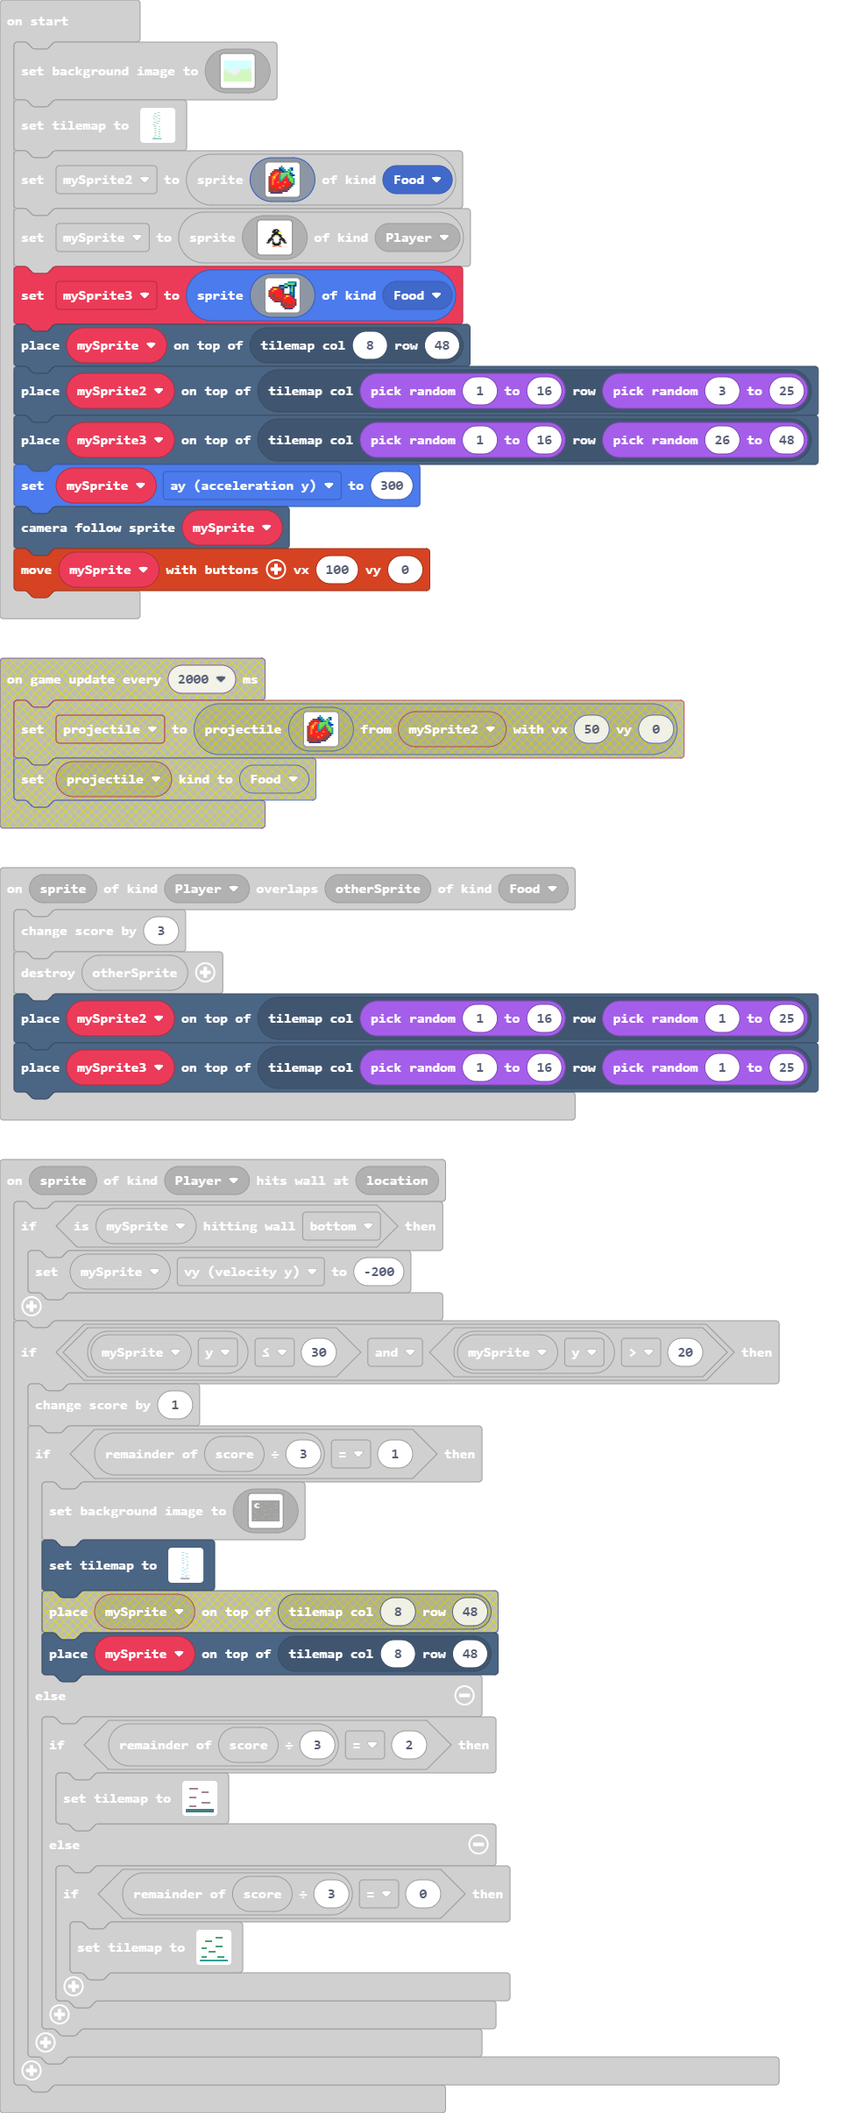
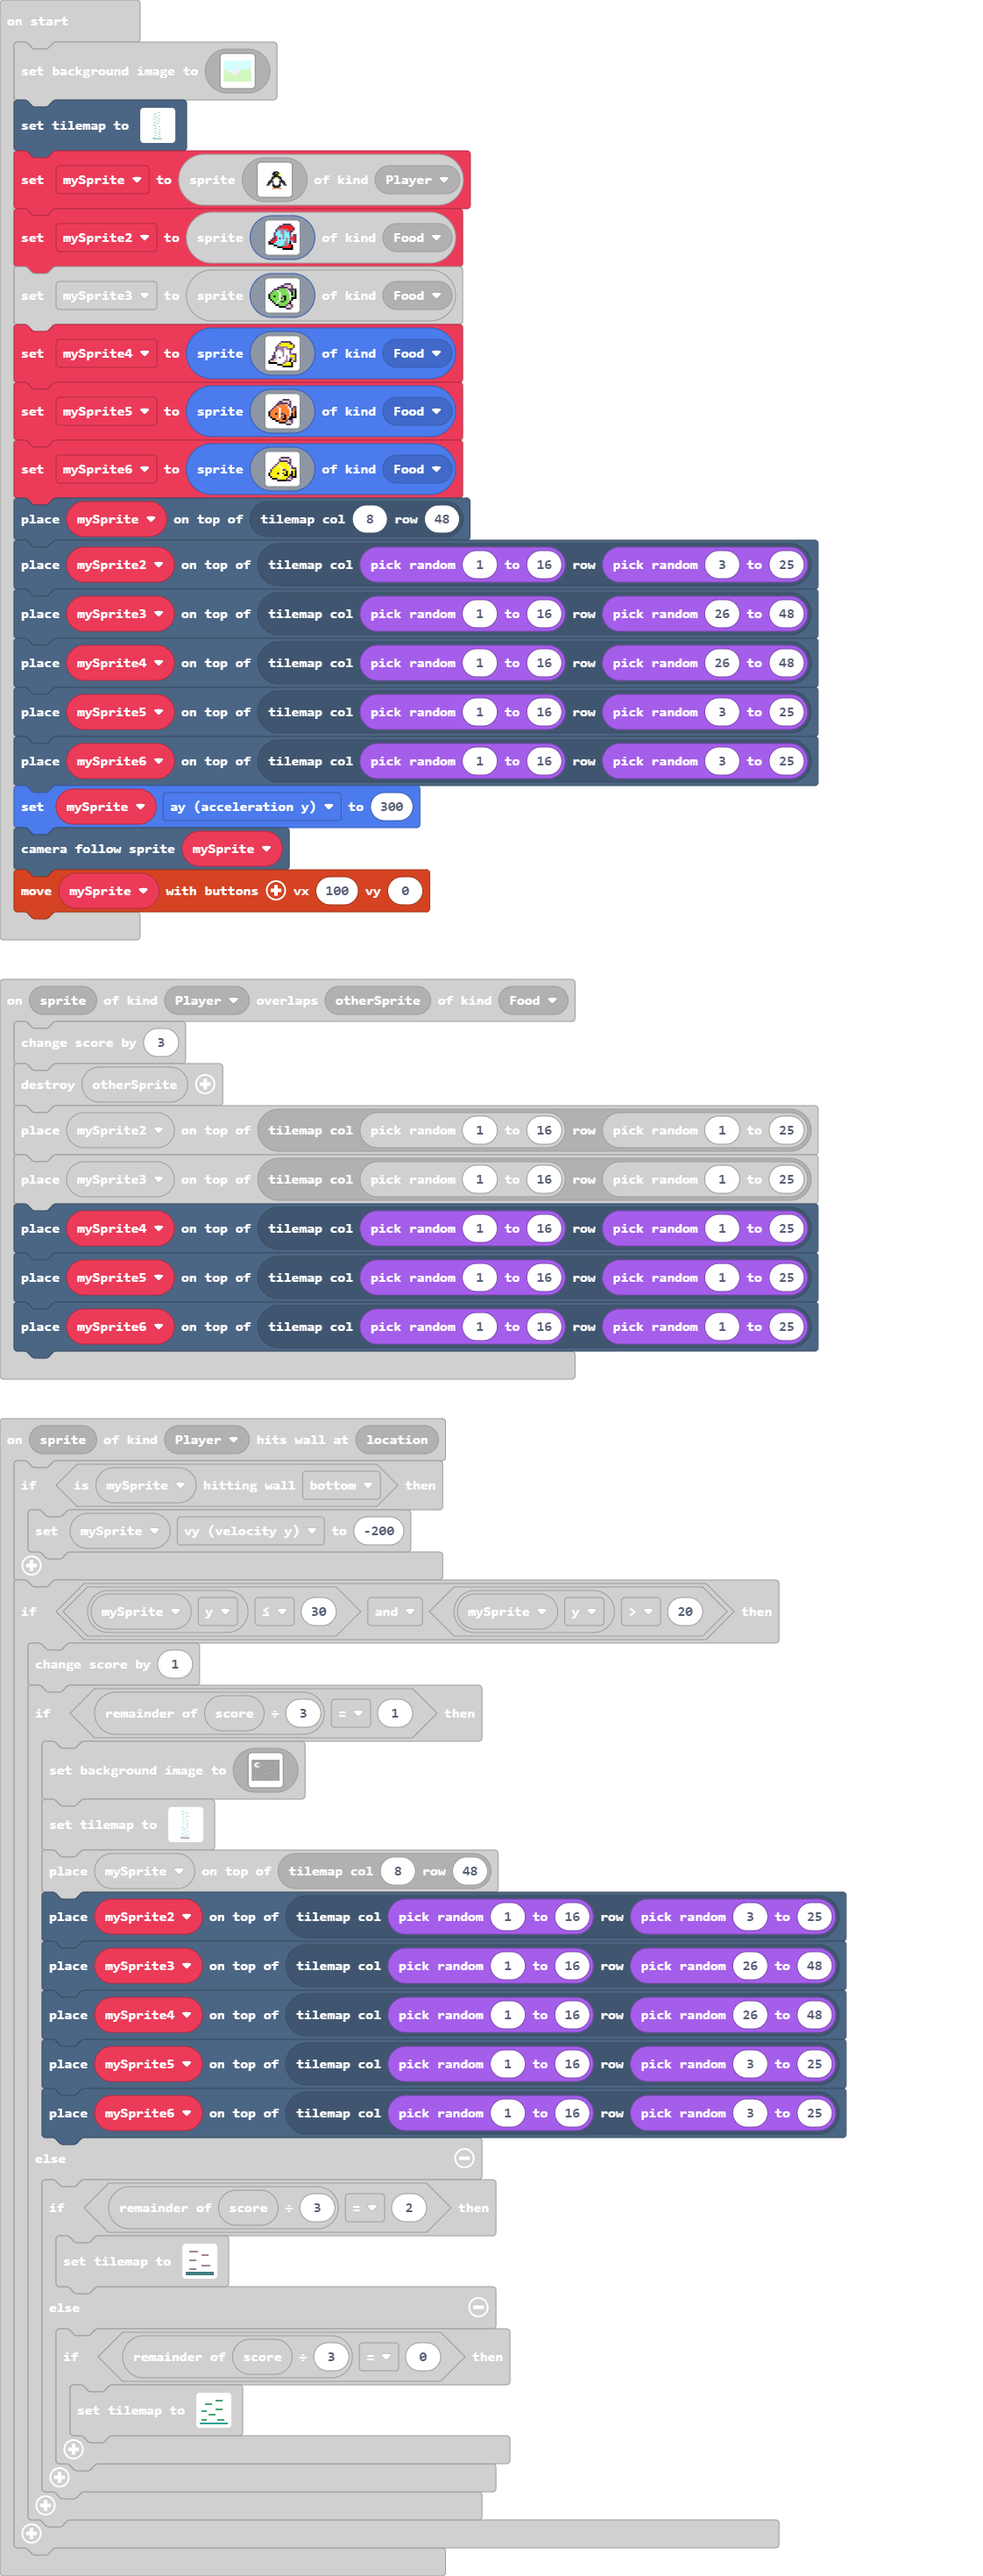
Update main.blocks, main.ts

diff --git a/main.ts b/main.ts
@@ -184,6 +184,11 @@ scene.onHitWall(SpriteKind.Player, function (sprite, location) {
                 ................
                 `, [myTiles.transparency16,sprites.dungeon.collectibleRedCrystal,sprites.dungeon.collectibleBlueCrystal,sprites.dungeon.collectibleInsignia,sprites.dungeon.darkGroundSouthWest0,sprites.dungeon.darkGroundSouthEast0,sprites.dungeon.darkGroundSouth,sprites.dungeon.darkGroundNorth], TileScale.Sixteen))
             tiles.placeOnTile(mySprite, tiles.getTileLocation(8, 48))
+            tiles.placeOnTile(mySprite2, tiles.getTileLocation(randint(1, 16), randint(3, 25)))
+            tiles.placeOnTile(mySprite3, tiles.getTileLocation(randint(1, 16), randint(26, 48)))
+            tiles.placeOnTile(mySprite4, tiles.getTileLocation(randint(1, 16), randint(26, 48)))
+            tiles.placeOnTile(mySprite5, tiles.getTileLocation(randint(1, 16), randint(3, 25)))
+            tiles.placeOnTile(mySprite6, tiles.getTileLocation(randint(1, 16), randint(3, 25)))
         } else {
             if (info.score() % 3 == 2) {
                 tiles.setTilemap(tiles.createTilemap(hex`1000100000000000000000000000000000000000000000000000000000000000000000000000020202020200000000000000000000000000000000000000000000000000000000000000000000020202020000000000000000000000000000000000000000000000000000000000000000000000000002020202000000000000000000000000000000000000000000000000000000000000000000000000000000000000000000000000000000020202020200000000000000000000000000000000000000000202020200000000000000000000000000000000000000000000000000000101010101010101010101010101010101010101010101010101010101010101`, img`
@@ -234,10 +239,16 @@ sprites.onOverlap(SpriteKind.Player, SpriteKind.Food, function (sprite, otherSpr
     otherSprite.destroy()
     tiles.placeOnTile(mySprite2, tiles.getTileLocation(randint(1, 16), randint(1, 25)))
     tiles.placeOnTile(mySprite3, tiles.getTileLocation(randint(1, 16), randint(1, 25)))
+    tiles.placeOnTile(mySprite4, tiles.getTileLocation(randint(1, 16), randint(1, 25)))
+    tiles.placeOnTile(mySprite5, tiles.getTileLocation(randint(1, 16), randint(1, 25)))
+    tiles.placeOnTile(mySprite6, tiles.getTileLocation(randint(1, 16), randint(1, 25)))
 })
+let mySprite6: Sprite = null
+let mySprite5: Sprite = null
+let mySprite4: Sprite = null
 let mySprite3: Sprite = null
-let mySprite: Sprite = null
 let mySprite2: Sprite = null
+let mySprite: Sprite = null
 scene.setBackgroundImage(img`
     9999999999999999999999999999999999999999999999999999999999999999999999999999999999999999999999999999999999999999999999999999999999999999999999999999999999999999
     9999999999999999999999999999999999999999999999999999999999999999999999999999999999999999999999999999999999999999999999999999999999999999999999999999999999999999
@@ -412,24 +423,6 @@ tiles.setTilemap(tiles.createTilemap(hex`100032000000000000000000000000000000000
     ................
     ................
     `, [myTiles.transparency16,sprites.castle.tileDarkGrass1,sprites.builtin.forestTiles0,sprites.castle.tileDarkGrass2], TileScale.Sixteen))
-mySprite2 = sprites.create(img`
-    . . . . . . . 6 . . . . . . . . 
-    . . . . . . 8 6 6 . . . 6 8 . . 
-    . . . e e e 8 8 6 6 . 6 7 8 . . 
-    . . e 2 2 2 2 e 8 6 6 7 6 . . . 
-    . e 2 2 4 4 2 7 7 7 7 7 8 6 . . 
-    . e 2 4 4 2 6 7 7 7 6 7 6 8 8 . 
-    e 2 4 5 2 2 6 7 7 6 2 7 7 6 . . 
-    e 2 4 4 2 2 6 7 6 2 2 6 7 7 6 . 
-    e 2 4 2 2 2 6 6 2 2 2 e 7 7 6 . 
-    e 2 4 2 2 4 2 2 2 4 2 2 e 7 6 . 
-    e 2 4 2 2 2 2 2 2 2 2 2 e c 6 . 
-    e 2 2 2 2 2 2 2 4 e 2 e e c . . 
-    e e 2 e 2 2 4 2 2 e e e c . . . 
-    e e e e 2 e 2 2 e e e c . . . . 
-    e e e 2 e e c e c c c . . . . . 
-    . c c c c c c c . . . . . . . . 
-    `, SpriteKind.Food)
 mySprite = sprites.create(img`
     ........................
     ........................
@@ -456,27 +449,102 @@ mySprite = sprites.create(img`
     ........................
     ........................
     `, SpriteKind.Player)
+mySprite2 = sprites.create(img`
+    . . . . . . . . c c c c c . . . 
+    . . . . . . c c 2 2 2 2 2 c . . 
+    . . . . . c 2 2 2 2 2 2 2 2 c . 
+    . . . . c b b b b b b 2 2 2 c . 
+    . . . . c 9 9 b b 9 b b c c . . 
+    . . . c 9 9 9 b b 9 9 9 c . . . 
+    . . . c 9 9 9 9 b 9 9 9 c . c c 
+    . . . c 2 9 9 9 b 9 9 9 b b 2 c 
+    . . c c 2 9 c 9 b 9 b 9 2 2 2 c 
+    . c c 2 2 9 9 9 9 9 b 9 b b 2 c 
+    f 2 2 2 9 9 9 9 9 b b 9 f . c c 
+    f f f 9 9 9 9 9 9 b b b f . . . 
+    . . . f f 9 9 9 b b b 2 2 f . . 
+    . . . . . f f f 2 2 2 2 2 f . . 
+    . . . . . . . . f f f f f f . . 
+    . . . . . . . . . . . . . . . . 
+    `, SpriteKind.Food)
 mySprite3 = sprites.create(img`
-    . . . . . . . . . . . 6 6 6 6 6 
-    . . . . . . . . . 6 6 7 7 7 7 8 
-    . . . . . . 8 8 8 7 7 8 8 6 8 8 
-    . . e e e e c 6 6 8 8 . 8 7 8 . 
-    . e 2 5 4 2 e c 8 . . . 6 7 8 . 
-    e 2 4 2 2 2 2 2 c . . . 6 7 8 . 
-    e 2 2 2 2 2 2 2 c . . . 8 6 8 . 
-    e 2 e e 2 2 2 2 e e e e c 6 8 . 
-    c 2 e e 2 2 2 2 e 2 5 4 2 c 8 . 
-    . c 2 e e e 2 e 2 4 2 2 2 2 c . 
-    . . c 2 2 2 e e 2 2 2 2 2 2 2 e 
-    . . . e c c e c 2 2 2 2 2 2 2 e 
-    . . . . . . . c 2 e e 2 2 e 2 c 
-    . . . . . . . c e e e e e e 2 c 
-    . . . . . . . . c e 2 2 2 2 c . 
-    . . . . . . . . . c c c c c . . 
+    . . . . . . . . . . . . . . . . 
+    . . . . . . . . . c c c c . . . 
+    . . . . . . . c c d d d d c . . 
+    . . . . . c c c c c c d d c . . 
+    . . . c c c 7 7 7 7 d c c c c c 
+    . . c 7 7 1 7 7 7 7 7 1 c c 7 f 
+    . c 7 7 7 7 1 7 7 7 7 d 1 f 7 f 
+    f 7 7 7 7 7 1 7 7 7 7 7 1 f 7 f 
+    f 7 7 f 7 7 1 7 c f 7 7 1 7 7 f 
+    f 7 7 7 7 7 1 c 7 f 7 7 1 f f f 
+    . f 7 7 7 7 1 7 7 f 7 7 d f . . 
+    . . f 7 7 1 7 c c 7 7 d f . . . 
+    . . . f d 7 7 7 7 7 7 c f . . . 
+    . . . . f f 7 7 7 7 c d b c . . 
+    . . . . . . f f f f d d d c . . 
+    . . . . . . . . . . c c c . . . 
+    `, SpriteKind.Food)
+mySprite4 = sprites.create(img`
+    . . . . . . . . . . . . . . . . 
+    . . . . . . . c c c c c c . . . 
+    . . . . . . c 5 5 5 5 5 c c . . 
+    . . . . . c 5 5 5 5 5 5 5 5 c . 
+    . . . . c b b b b b b 5 5 5 c . 
+    . . . . c b b b b 1 b b c c . . 
+    . . . . c 1 1 b b 1 1 1 c . . . 
+    . . . c 1 1 1 1 b 1 1 1 c . . . 
+    . . . c 1 1 1 1 b 1 1 1 b b c c 
+    . . c c d 1 1 1 b 1 b 1 5 5 5 c 
+    . . c c d 1 c 1 1 1 b 1 b b 5 c 
+    . c c d d 1 1 1 1 1 b 1 f b 5 c 
+    f d d d 1 1 1 1 1 b b b f . c c 
+    f f f f f 1 1 1 b b 5 5 5 f . . 
+    . . . . . f f f 5 5 5 5 5 f . . 
+    . . . . . . . . f f f f f f . . 
+    `, SpriteKind.Food)
+mySprite5 = sprites.create(img`
+    . . . . . . . . . . . . . . . . 
+    . . . . . . . . c c c c . . . . 
+    . . . . . . c c d d d d c . . . 
+    . . . . . c c c c c c d c . . . 
+    . . . . c c 4 4 4 4 d c c . . . 
+    . . . c 4 d 4 4 4 4 4 1 c . c c 
+    . . c 4 4 4 1 4 4 4 4 d 1 c 4 c 
+    . c 4 4 4 4 1 4 4 4 4 4 1 c 4 c 
+    f 4 4 4 4 4 1 4 4 4 4 4 1 4 4 f 
+    f 4 4 4 f 4 1 c c 4 4 4 1 f 4 f 
+    f 4 4 4 4 4 1 4 4 f 4 4 d f 4 f 
+    . f 4 4 4 4 1 c 4 f 4 d f f f f 
+    . . f f 4 d 4 4 f f 4 c f c . . 
+    . . . . f f 4 4 4 4 c d b c . . 
+    . . . . . . f f f f d d d c . . 
+    . . . . . . . . . . c c c . . . 
+    `, SpriteKind.Food)
+mySprite6 = sprites.create(img`
+    . . . . . . . . . . . . . . . . 
+    . . . . . . . c c c c c . . . . 
+    . . . . . . c d d d d d c . . . 
+    . . . . . . c c c c c d c . . . 
+    . . . . . c 5 5 5 5 d c c . . . 
+    . . . . c d 5 5 5 5 5 1 c . . . 
+    . . . c 5 5 1 5 5 5 5 5 1 c . . 
+    . . c 5 5 5 5 1 5 5 5 5 1 c c c 
+    . c 5 5 5 5 5 1 c c 5 5 1 5 5 c 
+    . c 5 5 5 5 5 1 5 5 f 5 1 f 5 f 
+    f 5 5 5 5 f 5 1 c 5 f 5 d f 5 f 
+    f 5 5 5 5 5 5 1 5 f f 5 f f 5 f 
+    . f 5 5 5 5 1 5 5 5 5 c b c f f 
+    . . f f f d 5 5 5 5 c d d c . . 
+    . . . . . f f f f f c c c . . . 
+    . . . . . . . . . . . . . . . . 
     `, SpriteKind.Food)
 tiles.placeOnTile(mySprite, tiles.getTileLocation(8, 48))
 tiles.placeOnTile(mySprite2, tiles.getTileLocation(randint(1, 16), randint(3, 25)))
 tiles.placeOnTile(mySprite3, tiles.getTileLocation(randint(1, 16), randint(26, 48)))
+tiles.placeOnTile(mySprite4, tiles.getTileLocation(randint(1, 16), randint(26, 48)))
+tiles.placeOnTile(mySprite5, tiles.getTileLocation(randint(1, 16), randint(3, 25)))
+tiles.placeOnTile(mySprite6, tiles.getTileLocation(randint(1, 16), randint(3, 25)))
 mySprite.ay = 300
 scene.cameraFollowSprite(mySprite)
 controller.moveSprite(mySprite, 100, 0)
